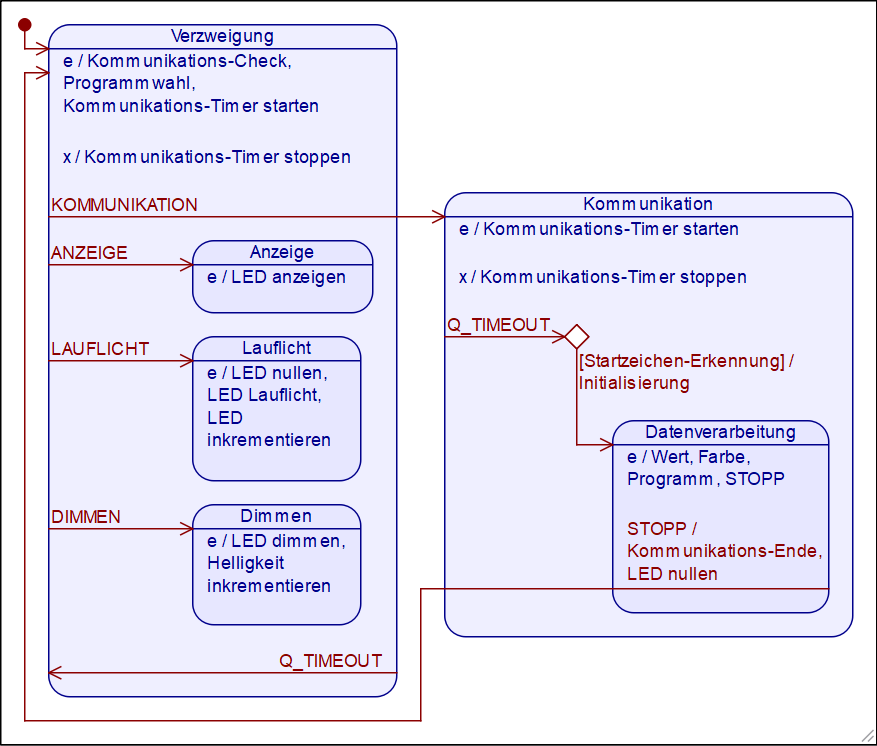
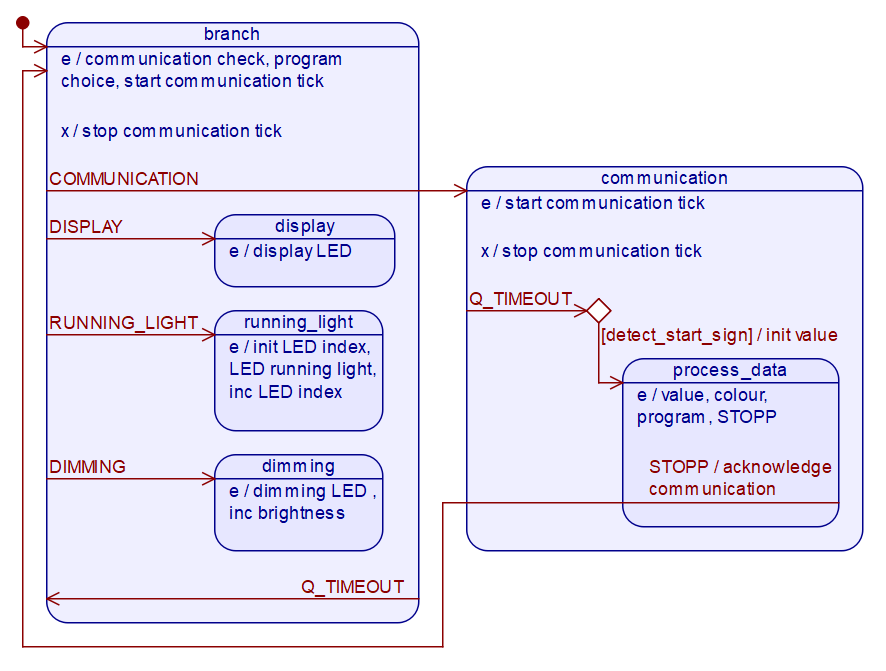
translation German -> English

Changed region(s): [[0.0, 0.0, 1.0, 1.0], [0.9852, 0.0, 1.0, 0.0298]]

diff --git a/README.md b/README.md
@@ -41,15 +41,15 @@ For that reason I turned to the long way to learn to use the framework and the m
 ### 7  Concluding remarks  
 So finally I realized my project with the following cornerstones.  
 A) I let my data transfer only be 4 char long:  
-1 char for the selected color or the selected LED animation together with the selected value of  1 char. Ahead of these 2 chars comes 1 char as a start sign. And afterwards comes 1 char as a stop sign.  
+1 char for the selected color or the selected LED program together with the selected value of  1 char. Ahead of these 2 chars comes 1 char as a start sign. And afterwards comes 1 char as a stop sign.  
 B) A handshake is implemented this way (see picture below):  
-If I change a color or a LED animation in the app (4) and there isn't already a communication going on, it first sends only 1 char as a request to the Arduino and wait for the answer (5). This blocking is wanted because I don't want to start a new communication before an ongoing is processed by both the Arduino and the app.  
+If I change a color or a LED program in the app (4) and there isn't already a communication going on, it first sends only 1 char as a request to the Arduino and wait for the answer (5). This blocking is wanted because I don't want to start a new communication before an ongoing is processed by both the Arduino and the app.  
 The char lands in the receive buffer of the UART. The sketch looks time triggered (6) into the receive buffer and when it notices the request (7), it sends a transmit char to the app (8) and stays in the communication state because like I said before, communication and LED control can't work parallel.  
 If the app notices the transmit char, also time triggered (9), it sends the 4 char data (10) and wait aigan for the acknowledge of the Arduino. Because the sketch knows at this time that it awaits data it looks time triggered (11) for the start sign (12).
 With the start sign the sketch processes the data until the stop sign shows up. Then it sends the acknowledge sign (13) and turns to the LED control (14).  
 When the app receives the acknowledge sign it becomes ready for a next transmission (13).  
 The sktech looks periodically time triggered (1, 15) into the receive buffer and turns back right away to the LED control if there is no new request (2, 16).  
-C) I use the same time tick for the communication and the pause between the LED animation.  
+C) I use the same time tick for the communication and the pause between the LED program.  
 
 ![handshake](doc/handshake.png)  
 
